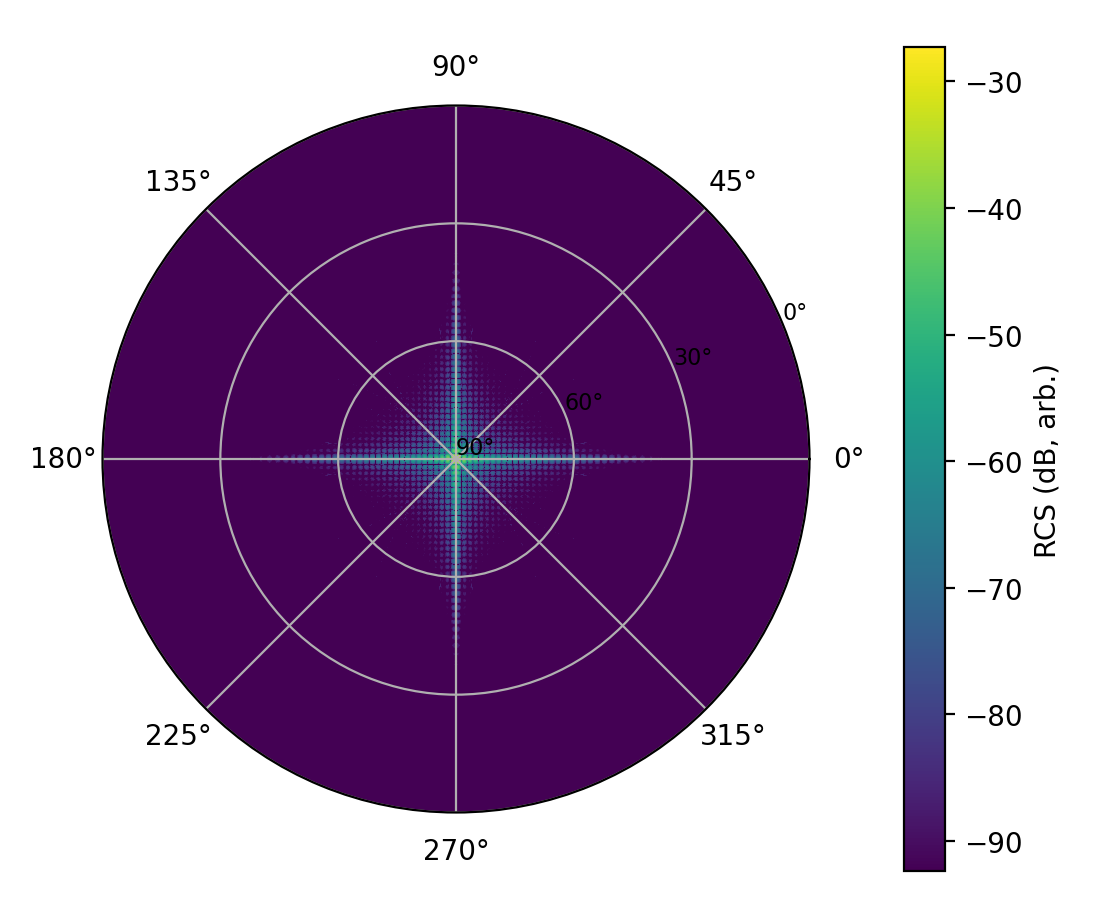
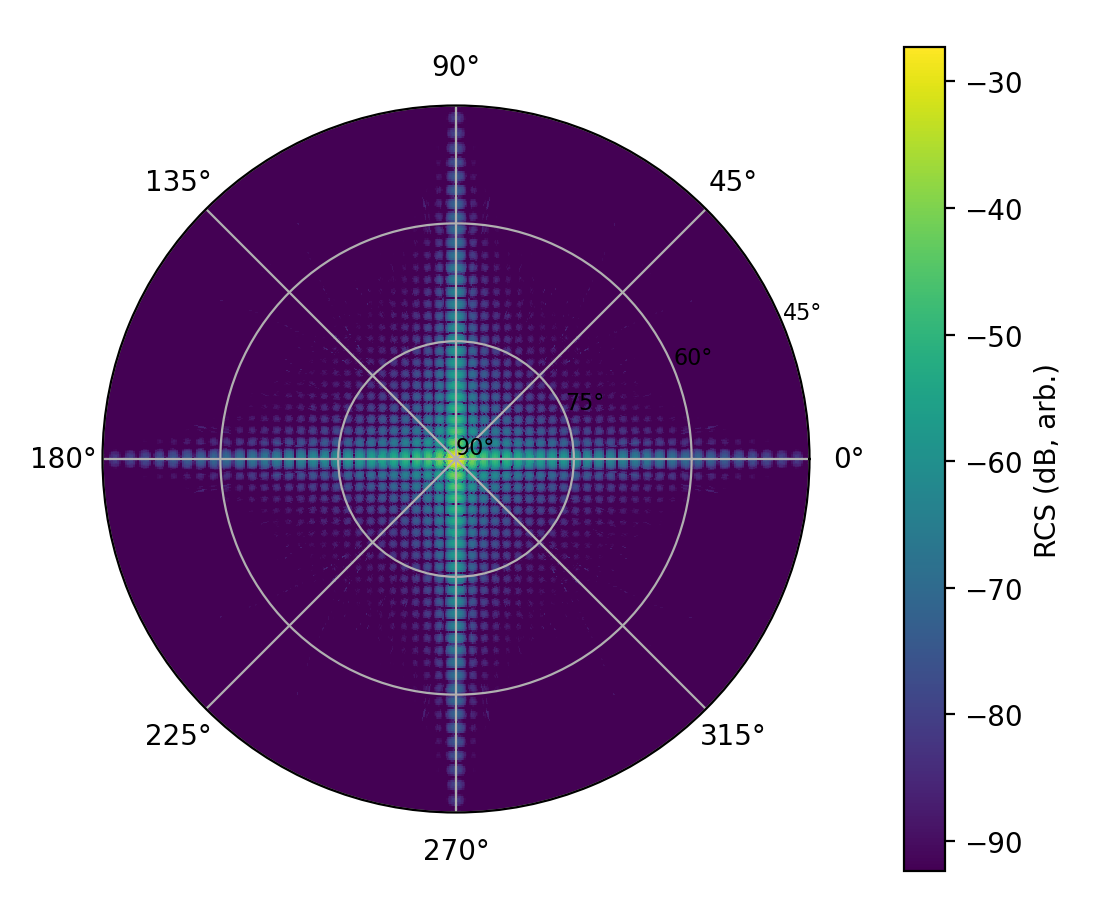
new todo list

Changed region(s): [[0.0927, 0.1219, 0.7418, 0.8836], [0.7109, 0.3351, 0.7418, 0.3656]]

diff --git a/latex/main.tex b/latex/main.tex
@@ -285,11 +285,9 @@ energy-range scatter, so we refer to (\ref{eq:accum-interp}) as the \emph{accumu
 interpolation} of the returns. It differs from standard interpolation because it sums together
 multiple returns in addition to interpolating them. Standard interpolation resamples a signal
 already given on a uniform grid, whereas here the inputs are $N$ returns at arbitrary continuous
-ranges $z_k/2$, often many per sample spacing, and (\ref{eq:accum-interp}) interpolates each of
-them onto the sample grid and accumulates them in a single step. For the same reason it differs
-from standard range compression, which filters a signal already sampled on a uniform grid.
-Since it is linear in $E_k$, it applies unchanged to complex returns that carry their
-carrier phase (\ref{eq:coherent-scatters}), so the simulated signals preserve phase for coherent
+ranges $z_k/2$, often many per sample spacing, and (\ref{eq:accum-interp}) interpolates 
+and accumulates them in a single step.
+(\ref{eq:accum-interp}) allows for complex returns, so the simulated signals preserve phase for coherent
 imaging.
 
 
@@ -519,7 +517,7 @@ $e = 80$--$85^\circ$, since the scattering lobe of the material is narrower than
     \subfloat[\centering]{\includegraphics[height=0.25\textwidth]{figs/rcs_polar.png}}
     \hfill
     \subfloat[\centering]{\includegraphics[trim=767bp 0 0 20bp, clip, height=0.25\textwidth]{figs/sar_validation.png}}
-  \caption{RCS (\ref{eq:rcs}) in dB. (\textbf{a}) A $1 \times 1$ flat plate at $\lambda = 0.05$ and
+  \caption{RCS (\ref{eq:rcs}) in dB. (\textbf{a}) A $1 \times 1$ flat plate at $\lambda = 0.05$ for $e = 45$--$90^\circ$ and
   (\textbf{b}) the car of Figure \ref{fig:main-fig}.a without the ground at the default $\lambda$, with the azimuth $a$ as
   the angle and $90^\circ - e$ as the radius, so the zenith is at the center. (\textbf{c}) The plate
   at $a = 0^\circ$ and $e = 80$--$90^\circ$, simulated (solid) and theoretical RCS (dotted),
@@ -776,8 +774,10 @@ cost of the simulator is set by the number of rays and not by the bandwidth, sam
 transmit waveform. On the GPU, $16\times$ more rays cost $9\times$ more time on the small mesh and
 $12.5\times$ more on the large mesh. The large mesh has about $100\times$ more triangles than the small
 one but takes only $1.6$--$2.3\times$ longer on the GPU, since the octree limits each ray to the
-triangles near its path. On the CPU, the time grows faster than the number of rays and the number of
-triangles, so the speedup of the GPU grows with the size of the problem, from $15\times$ for the
+triangles near its path. On the CPU, the same $16\times$ more rays cost $27\times$ more time on the
+small mesh and $61\times$ more on the large mesh, and the large mesh takes $6.6$--$15\times$ longer
+than the small one. The CPU time grows faster than the GPU time with both the rays and the triangles,
+so the speedup of the GPU grows with the size of the problem, from $15\times$ for the
 small mesh at $32^2$ rays to $306\times$ for the large mesh at $128^2$ rays. The largest setting,
 with $30 \times 128^2 \approx 4.9 \times 10^5$ rays over a $1.3$~M-triangle mesh, renders in under $7$~s on the GPU and needs $2.5$~GB
 of GPU memory, compared with $35$~min on the CPU.

diff --git a/calculate_rcs.py b/calculate_rcs.py
@@ -24,9 +24,10 @@ A plate's cuts carry its physical-optics RCS, dotted, with every curve normalize
     python calculate_rcs.py -mode az_cut -elevation 30
     python calculate_rcs.py -mode el_cut -azimuth 90
     python calculate_rcs.py -flatplate 1
-    python calculate_rcs.py -flatplate 1 -wavelength 0.05 -az_step 0.25 -el_step 0.25 -db_range 65   # paper Fig. rcs a
+    python calculate_rcs.py -flatplate 1 -wavelength 0.05 -az_step 0.25 -el_step 0.25 -db_range 65
+    python calculate_rcs.py -flatplate 1 -wavelength 0.05 -el_range 45 90 -db_range 65 -replot   # paper Fig. rcs a
     python calculate_rcs.py -flatplate 1 -mode el_cut -el_step 0.1 -wavelength 0.05 0.025 -cartesian
-    python calculate_rcs.py -mode polar -replot      # redraw from the saved .npz
+    python calculate_rcs.py -mode polar -replot      # redraw from the saved .npz, cropped to -el_range
 """
 import argparse
 import os
@@ -209,7 +210,7 @@ def plot_map(az, el, sigma, db_range, out_path, cartesian=False):
         fig, ax = plt.subplots(figsize=(5.5, 4.6), subplot_kw=dict(projection='polar'))
         mesh = ax.pcolormesh(np.radians(az), 90 - el, to_db(sigma, db_range),
                              shading='nearest', cmap='viridis')
-        r_ticks = np.arange(0, 90 - el.min() + 1e-6, 30)
+        r_ticks = np.arange(0, 90 - el.min() + 1e-6, 30 if el.min() < 45 else 15)
         ax.set_rticks(r_ticks)
         ax.set_yticklabels(['%d°' % (90 - r) for r in r_ticks], fontsize=8)
         ax.set_rlim(0, 90 - el.min())
@@ -270,9 +271,13 @@ def main():
     if args.wavelength is not None:
         tag += '_wl' + '-'.join('%g' % w for w in wavelengths)
 
+    el_tag = '' if args.mode == 'az_cut' or tuple(args.el_range) == (0.0, 90.0) else '_el%g-%g' % tuple(args.el_range)
+
     os.makedirs(args.output_dir, exist_ok=True)
-    npz_path = os.path.join(args.output_dir, 'rcs_%s.npz' % tag)
-    png_path = os.path.join(args.output_dir, 'rcs_%s%s.png' % (tag, '_cartesian' if args.cartesian else ''))
+    npz_path = os.path.join(args.output_dir, 'rcs_%s%s.npz' % (tag, el_tag))
+    if args.replot and not os.path.exists(npz_path):                    # crop the full sweep instead
+        npz_path = os.path.join(args.output_dir, 'rcs_%s.npz' % tag)
+    png_path = os.path.join(args.output_dir, 'rcs_%s%s%s.png' % (tag, el_tag, '_cartesian' if args.cartesian else ''))
 
     if args.replot:
         data = np.load(npz_path)
@@ -294,6 +299,10 @@ def main():
                  wavelength=[np.nan if w is None else w for w in wavelengths],
                  num_bounce=baseline['num_bounce'], ground=args.ground)
     sigmas = sigmas.reshape((len(wavelengths),) + az_grid.shape)        # old single-wavelength .npz
+    if args.replot and args.mode != 'az_cut':                           # elevation axis is first
+        el_axis = el_grid if el_grid.ndim == 1 else el_grid[:, 0]
+        keep = (el_axis >= args.el_range[0] - 1e-6) & (el_axis <= args.el_range[1] + 1e-6)
+        az_grid, el_grid, sigmas = az_grid[keep], el_grid[keep], sigmas[:, keep]
 
     theories = None
     if args.flatplate is not None and None not in wavelengths:
